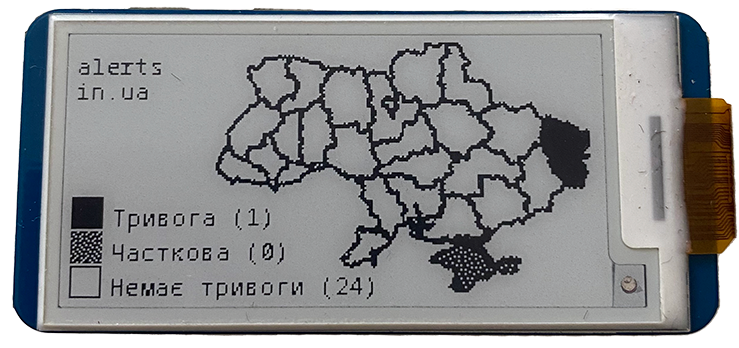
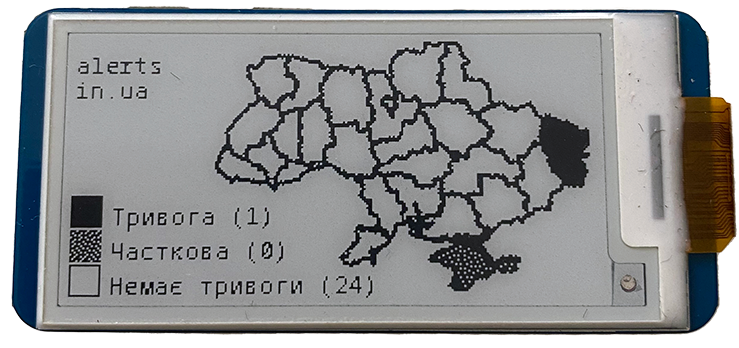
typo fix changed preview

diff --git a/README.md b/README.md
@@ -2,7 +2,7 @@
 
 Shows active air-raid sirens in Ukraine.
 
-Modified version which user alerts.in.ua API
+Modified version which use alerts.in.ua API
 
 ![display](docs/display_2.png)
 
